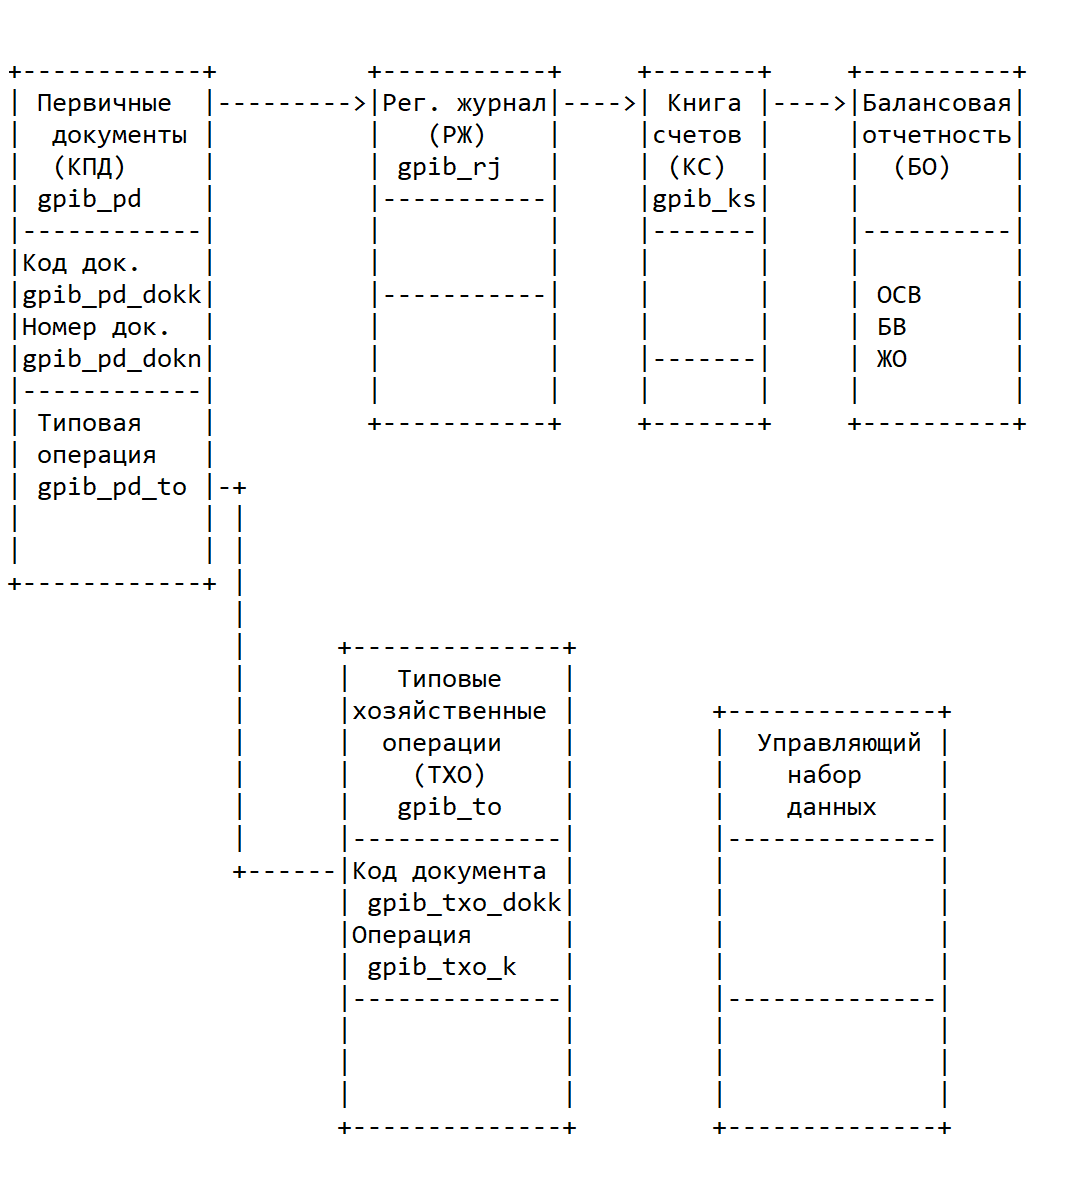
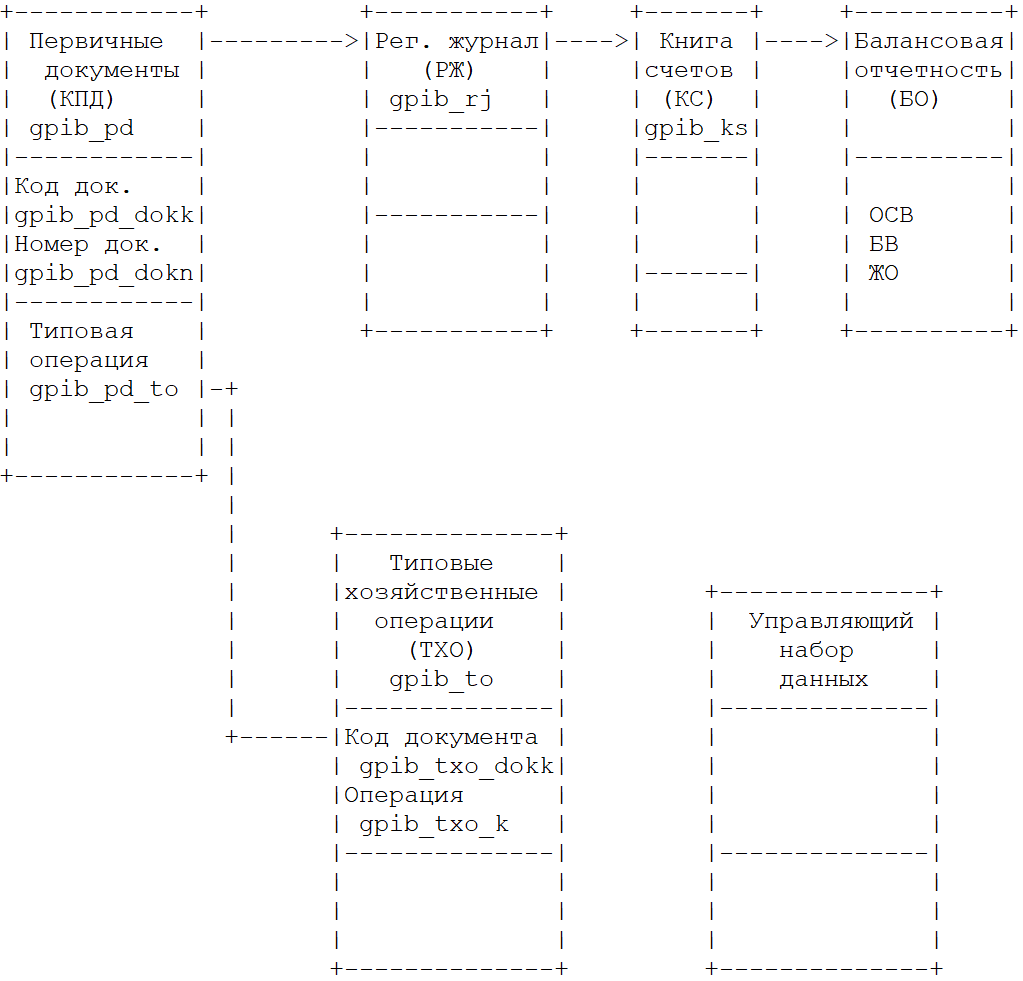
gpi_docs : Updated project gpib_

diff --git a/gpi_docs/_tex/gpib_part2.tex b/gpi_docs/_tex/gpib_part2.tex
@@ -3,10 +3,12 @@
 
 \begin{figure}[!htb]
     \centering
-    \includegraphics[height=11cm]
+    \includegraphics[width=18cm]
         {_assets/gpib_part2.png}
     \caption{Функциональная схема обработки данных}
 \end{figure}
+
+\newpage
 
 \subsection{Описание картотек}
 
@@ -19,14 +21,18 @@
     \item Типовые хозяйственные операции (ТХО) \gpiFIO\/b\_to.
 \end{itemize}
 
-\begin{table}[!htbp]
+\begin{table}[!htb]
     \centering
     \scriptsize
     \caption{Первичные документы \gpiFIO\/b\_pd}
-    \begin{tabular}{|l|l|l|} 
+    \begin{tabular}{|p{7cm}|p{7cm}|c|}
 
-                                                                                   \hline
-\textbf{Реквизит}           &\textbf{Обозначение}   &\textbf{Тип и значность}   \\ \hline
+\hline
+\multicolumn{1}{|c}{\textbf{Реквизит}}
+&\multicolumn{1}{|c}{\textbf{Обозначение}}  
+&\multicolumn{1}{|p{1.6cm}|}{\textbf{Тип и значность}} 
+\\ \hline
+
 поле связи =0               &\gpiFIO\/b\_pd\_0            &n1                         \\ \hline
 код документа < --- opd     &\gpiFIO\/b\_pd\_dokk         &c3                         \\ \hline
 номер документа             &\gpiFIO\/b\_pd\_dokn         &n5                         \\ \hline
@@ -41,29 +47,20 @@
     \end{tabular}
 \end{table}
 
-% \begin{table}[h!p]
-%     \centering
-%     \scriptsize
-%     \caption{Виды аналитики gpia\_va}
-%     \begin{tabular}{|l|l|l|} 
+\newpage
 
-%                                                                                \hline
-% \textbf{Реквизит}       &\textbf{Обозначение}   &\textbf{Тип и значность}   \\ \hline
-% поле связи  	  =0    &gpia\_va\_0            &c1                         \\ \hline
-% вид аналитики           &gpia\_va\_k            &c3                         \\ \hline
-% название вида аналитики &gpia\_va\_n            &c15                        \\ \hline
-
-%     \end{tabular}
-% \end{table}
-
-\begin{table}[!htbp]
+\begin{table}[!h]
     \centering
     \scriptsize
     \caption{Регистрационный журнал (РЖ) \gpiFIO\/b\_rj}
-    \begin{tabular}{|l|l|l|} 
+    \begin{tabular}{|p{7cm}|p{7cm}|c|} 
 
-                                                                                       \hline
-\textbf{Реквизит}               &\textbf{Обозначение}   &\textbf{Тип и значность}   \\ \hline
+\hline
+\multicolumn{1}{|c}{\textbf{Реквизит}}
+&\multicolumn{1}{|c}{\textbf{Обозначение}}  
+&\multicolumn{1}{|p{1.6cm}|}{\textbf{Тип и значность}} 
+\\ \hline
+
 поле связи =0                   &\gpiFIO\/b\_rj\_0            &n1                         \\ \hline
 дата операции                   &\gpiFIO\/b\_rj\_data         &d8                         \\ \hline
 код оправдательного документа   &\gpiFIO\/b\_rj\_dokk         &c3                         \\ \hline
@@ -79,14 +76,18 @@
     \end{tabular}
 \end{table}
 
-\begin{table}[!htbp]
+\begin{table}[!htb]
     \centering
     \scriptsize
     \caption{Книга счетов(КС) \gpiFIO\/b\_ks}
-    \begin{tabular}{|l|l|l|} 
+    \begin{tabular}{|p{7cm}|p{7cm}|c|} 
 
-                                                                                       \hline
-\textbf{Реквизит}               &\textbf{Обозначение}   &\textbf{Тип и значность}   \\ \hline
+\hline
+\multicolumn{1}{|c}{\textbf{Реквизит}}
+&\multicolumn{1}{|c}{\textbf{Обозначение}}  
+&\multicolumn{1}{|p{1.6cm}|}{\textbf{Тип и значность}} 
+\\ \hline
+
 поле связи =0                   &\gpiFIO\/b\_ks\_0            &n1                         \\ \hline
 дата операции                   &\gpiFIO\/b\_ks\_data         &d8                         \\ \hline
 код оправдательного документа   &\gpiFIO\/b\_ks\_dokk         &c3                         \\ \hline
@@ -103,35 +104,18 @@
     \end{tabular}
 \end{table}
 
-% \begin{table}[h!p]
-%     \centering
-%     \scriptsize
-%     \caption{Определение первичных документов gpia\_opd}
-%     \begin{tabular}{|l|l|l|} 
-
-%                                                                                    \hline
-% \textbf{Реквизит}           &\textbf{Обозначение}   &\textbf{Тип и значность}   \\ \hline
-% поле связи       =0         &gpia\_opd\_0           &c1                         \\ \hline
-% код документа               &gpia\_opd\_k           &c3                         \\ \hline
-% наименование документа      &gpia\_opd\_n           &c10                        \\ \hline
-% вид аналитики 1  < ---  va  &gpia\_opd\_av1         &c3                         \\ \hline
-% тип аналитики 1    =д, к, x &gpia\_opd\_avt1        &c1                         \\ \hline
-% виды аналитики 2            &gpia\_opd\_av2         &c3                         \\ \hline
-% тип аналитики 2             &gpia\_opd\_avt2        &c1                         \\ \hline
-% вид аналитики 3             &gpia\_opd\_av3         &c3                         \\ \hline
-% тип аналитики 2             &gpia\_opd\_avt3        &c1                         \\ \hline
-
-%     \end{tabular}
-% \end{table}
-
-\begin{table}[!htbp]
+\begin{table}[!htb]
     \centering
     \scriptsize
     \caption{Типовые хозяйственные операции(ТХО) \gpiFIO\/b\_txo}
-    \begin{tabular}{|l|l|l|} 
+    \begin{tabular}{|p{7cm}|p{7cm}|c|}
 
-                                                                                       \hline
-\textbf{Реквизит}               &\textbf{Обозначение}   &\textbf{Тип и значность}   \\ \hline
+\hline
+\multicolumn{1}{|c}{\textbf{Реквизит}}
+&\multicolumn{1}{|c}{\textbf{Обозначение}}  
+&\multicolumn{1}{|p{1.6cm}|}{\textbf{Тип и значность}} 
+\\ \hline
+
 поле связи =0                   &gpi\_to\_0             &n1                         \\ \hline
 код документа < --- opd         &gpi\_to\_dokk          &c3                         \\ \hline
 код типовой операции            &gpi\_to\_k             &c10                        \\ \hline
@@ -143,58 +127,6 @@
     \end{tabular}
 \end{table}
 
-% \begin{table}[h!p]
-%     \centering
-%     \scriptsize
-%     \caption{План счетов(ПС) gpia\_ps}
-%     \begin{tabular}{|l|l|l|} 
-
-%                                                                                            \hline
-% \textbf{Реквизит}                   &\textbf{Обозначение}   &\textbf{Тип и значность}   \\ \hline
-% поле связи        =0                &gpia\_ps\_0            &c1                         \\ \hline
-% счет                                &gpia\_ps\_s            &n2                         \\ \hline
-% название счета                      &gpia\_ps\_n            &c10                        \\ \hline
-% тип счета          = а, п, x        &gpia\_ps\_typ          &c1                         \\ \hline
-% вид аналитики 1 из VA               &gpia\_ps\_av1          &c3                         \\ \hline
-% вид аналитики 2 из VA               &gpia\_ps\_av2          &c3                         \\ \hline
-
-%     \end{tabular}
-% \end{table}
-
-% \begin{table}[h!p]
-%     \centering
-%     \scriptsize
-%     \caption{Коды аналитического учёта(КАУ) gpia\_kau}
-%     \begin{tabular}{|l|l|l|} 
-
-%                                                                                \hline
-% \textbf{Реквизит}       &\textbf{Обозначение}   &\textbf{Тип и значность}   \\ \hline
-% поле связи          =0  &gpia\_kau\_0           &c1                         \\ \hline
-% вид аналитики           &gpia\_kau\_k           &c5                         \\ \hline
-% вид аналитики           &gpia\_kau\_n           &c15                        \\ \hline
-
-%     \end{tabular}
-% \end{table}
-
-% \begin{table}[h!p]
-%     \centering
-%     \scriptsize
-%     \caption{Настройки системы gpia\_nst}
-%     \begin{tabular}{|l|l|l|} 
-
-%                                                                                \hline
-% \textbf{Реквизит}       &\textbf{Обозначение}   &\textbf{Тип и значность}   \\ \hline
-% поле связи          =0  &gpia\_nst\_0           &c1                         \\ \hline
-% дата текущая            &gpia\_nst\_datat       &D                          \\ \hline
-% интервал с              &gpia\_nst\_datas       &D                          \\ \hline
-% интервал до             &gpia\_nst\_datado      &D                          \\ \hline
-% cчёт                    &gpia\_nst\_s           &n2                         \\ \hline
-% название счёта          &gpia\_nst\_sn          &c10                        \\ \hline
-% название фирмы          &gpia\_nst\_firma       &c10                        \\ \hline
-
-%     \end{tabular}
-% \end{table}
-
 \newpage
 
 \subsection{Описание работ}
@@ -203,22 +135,19 @@
     \centering
     \scriptsize
     \caption{Описание работ}
-    \begin{tabular}{|p{8cm}|p{8cm}|} 
+    \begin{tabular}{|p{6cm}|p{11cm}|} 
 
 % = = = = = = = = = =
 
 \hline
-
-% = = = = = = = = = =
-
-\textbf{Группа работ}
-&
-\textbf{Работы}
+\multicolumn{1}{|c}{\textbf{Группа работ}}
+&\multicolumn{1}{|c|}{\textbf{Работы}}
 \\ \hline
 
 % = = = = = = = = = =
 
-Формирование и разноска первичных документов \par
+Формирование и разноска первичных \par
+документов \par
 \hspace{0pt} \par
 \textbf{\gpiFIO\/b\_Документы}
 &

diff --git a/gpi_docs/_tex/gpib_part3.tex b/gpi_docs/_tex/gpib_part3.tex
@@ -1,0 +1,10 @@
+\section{Эксплуатационное описание системы}
+
+\subsection{Функциональная схема обработки данных с использованием инструментальной среды}
+\subsection{Описание картотек с использованием инструментальной среды}
+\subsection{Скриншоты меню}
+\subsection{Скриншоты картотек}
+\subsection{Образцы первичных документов}
+\subsection{Образцы печатных форм}
+
+\newpage

diff --git a/gpi_docs/gpib_doc.tex b/gpi_docs/gpib_doc.tex
@@ -50,4 +50,6 @@
 
     \input{_tex/gpib_part1.tex}
     \input{_tex/gpib_part2.tex}
+    \input{_tex/gpib_part3.tex}
+    \input{_tex/gpib_part4.tex}
 \end{document}

diff --git a/gpi_docs/_tex/gpib_part4.tex b/gpi_docs/_tex/gpib_part4.tex
@@ -1,0 +1,3 @@
+\section{Электронная версия разработанной системы}
+
+\newpage
